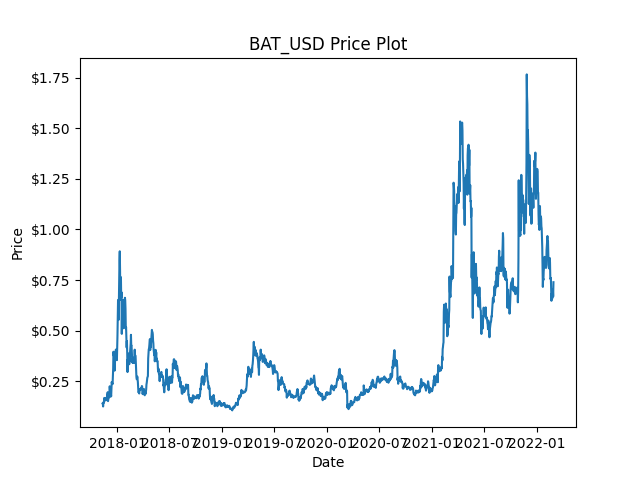
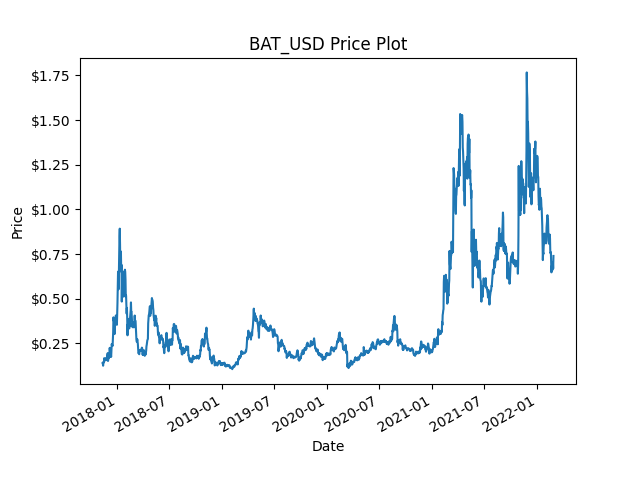
3.27

diff --git a/main.py b/main.py
@@ -135,6 +135,8 @@ def create_plot(df, cols, plt_show=False, plt_save=False, png_name='plot.png'):
     plt.title(str(cols[0]) + ' Price Plot')
     plt.xlabel('Date')
     plt.ylabel('Price')
+    ax.xaxis_date()
+    fig.autofmt_xdate()
     fmt = '${x:,.2f}'
     tick = mtick.StrMethodFormatter(fmt)
     ax.yaxis.set_major_formatter(tick) 
@@ -148,6 +150,8 @@ def correlation_plot(df, plt_show=False, plt_save=False, png_name='plot.png'):
     plt.plot(df)
     plt.title('Correlation Plot')
     plt.xlabel('Date')
+    ax.xaxis_date()
+    fig.autofmt_xdate()
     plt.ylabel('Correlation')
     plt.legend(['BAT/USD & BAT/BTC','BAT/USD & BTC/USD','BAT/BTC & BTC/USD'])
     if plt_show == True:
@@ -156,7 +160,7 @@ def correlation_plot(df, plt_show=False, plt_save=False, png_name='plot.png'):
         plt.savefig(png_name)
 
 def table_plot(df, plt_show=False, plt_save=False, png_name='table_plot.png'): # https://stackoverflow.com/questions/19726663/how-to-save-the-pandas-dataframe-series-data-as-a-figure
-    fig =  ff.create_table(close_corr_table)
+    fig =  ff.create_table(close_corr_table, index=True)
     fig.update_layout(
         autosize=False,
         width=500,
@@ -236,6 +240,8 @@ def roi_plot(df, plt_show=False, plt_save=False, png_name='roi_plot.png'):
     plt.title('ROI/Price Plot')
     plt.xlabel('Date')
     plt.ylabel('Price')
+    ax.xaxis_date()
+    fig.autofmt_xdate()
     fmt = '${x:,.2f}'
     tick = mtick.StrMethodFormatter(fmt)
     ax.yaxis.set_major_formatter(tick) 
@@ -397,6 +403,8 @@ def final_roi_plot(df, plt_show=False, plt_save=False, png_name='roi_plot.png'):
     plt.title('ROI/Price Plot')
     plt.xlabel('Date')
     plt.ylabel('Price')
+    ax.xaxis_date()
+    fig.autofmt_xdate()
     fmt = '${x:,.2f}'
     tick = mtick.StrMethodFormatter(fmt)
     ax.yaxis.set_major_formatter(tick) 
@@ -471,8 +479,9 @@ if __name__ == "__main__":
 
     # correlation_plot(rolling_correlation_df, False, False, 'plots/rolling_correlation.png')
 
-    # roi_plot(hold_only_portfolio_roi, False, False, 'plots/roi_plot.png')
-    # final_roi_plot(final_roi, True, True, 'plots/final_roi.png')
+    # roi_plot(hold_only_portfolio_roi, False, True, 'plots/roi_plot.png')
+    print(hold_only_portfolio_roi)
+    # final_roi_plot(final_roi, False, True, 'plots/final_roi.png')
 
 
 
